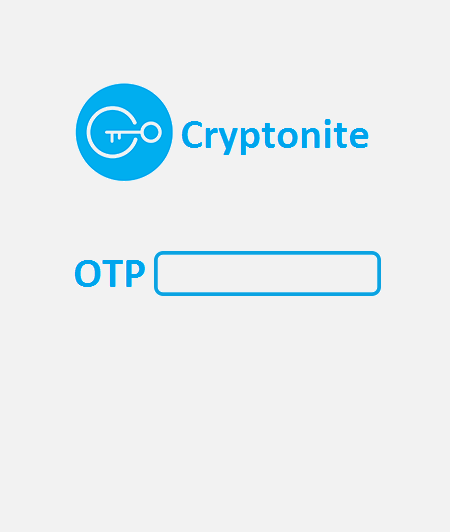
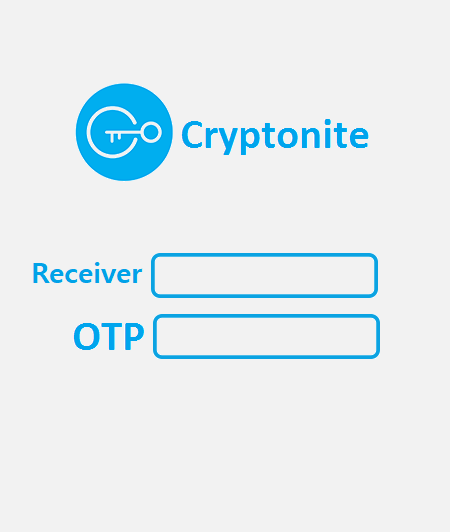
otp UI

Changed region(s): [[0.0622, 0.4511, 0.8711, 0.6917]]

diff --git a/Cryptonite/src/Client/Client_Send_OTP.java b/Cryptonite/src/Client/Client_Send_OTP.java
@@ -70,7 +70,7 @@ public class Client_Send_OTP extends JFrame
 		container=getContentPane();
 		container.setBackground(Color.WHITE);
 		setTitle("Cryptonite");
-		setBounds(500,300,448,530);
+		setBounds(500,350,448,530);
 		setResizable(false);
 		setDefaultCloseOperation(JFrame.DISPOSE_ON_CLOSE);
 		setLocationRelativeTo(null);
@@ -78,7 +78,7 @@ public class Client_Send_OTP extends JFrame
 		container.setLayout(null);
 		
 		getContentPane().setLayout(null);
-        layeredPane.setBounds(0, 0, 470, 550);
+        layeredPane.setBounds(0, 0, 470, 610);
         layeredPane.setLayout(null);
         
         try 
@@ -121,7 +121,7 @@ public class Client_Send_OTP extends JFrame
 				}
 				
 				OTP = new JLabel();
-		    	OTP.setBounds(236, 248, 200, 50);
+		    	OTP.setBounds(236, 308, 200, 50);
 		        OTP.setVisible(true);
 		        layeredPane.add(OTP);
 				
@@ -133,7 +133,7 @@ public class Client_Send_OTP extends JFrame
         
         OTPField = new JTextField();
         OTPField.setText("Please input receiver ID");
-        OTPField.setBounds(142, 190, 254, 50);
+        OTPField.setBounds(142, 250, 254, 50);
         OTPField.setForeground(Color.black);        
         OTPField.setFont(font);
         OTPField.setOpaque(false);
@@ -196,7 +196,7 @@ public class Client_Send_OTP extends JFrame
             if(_checkotp)
             {
             	g.setFont(font);
-            	g.drawString(_cfs.getOTP(), 240, 280);
+            	g.drawString(_cfs.getOTP(), 240, 340);
             	if (_cfs.getOTP().equals("0"))
             		{
             			frame.dispose();
